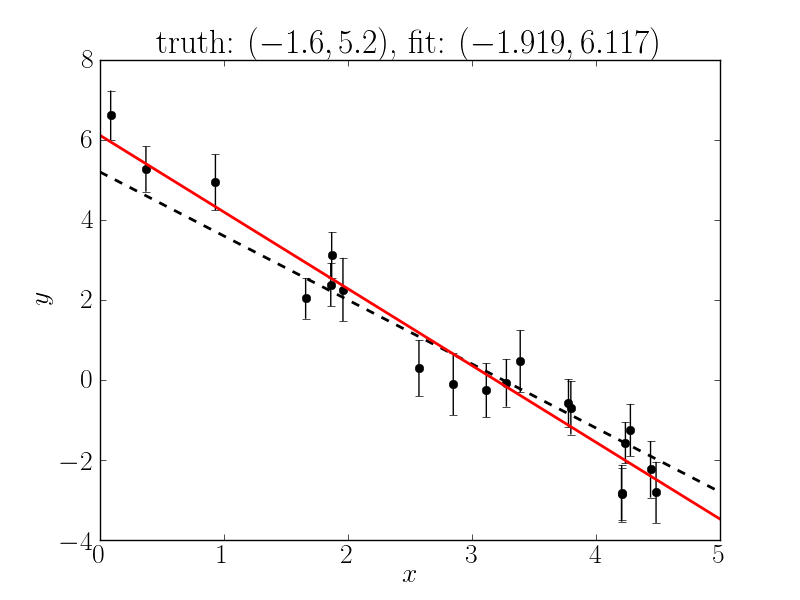
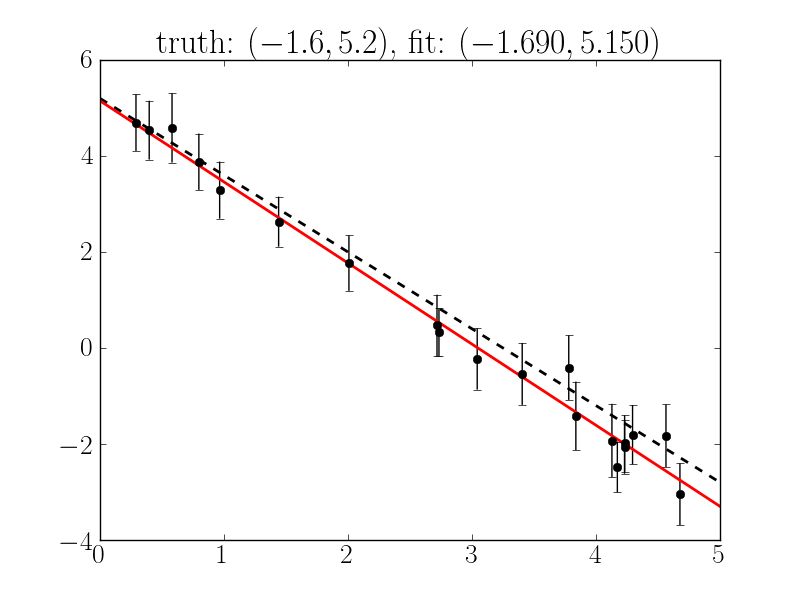
sampling

diff --git a/c/fit.py b/c/fit.py
@@ -15,25 +15,91 @@ p0 = np.array([1.0, 1.0])
 
 
 def optimize():
+    # The chi-squared function.
     chi2 = lambda p: -2 * line.lnlike(p, data)
+
+    # Optimize by minimizing chi-squared. This is equivalent to maximizing
+    # the likelihood.
     p = op.fmin(chi2, p0)
-    return p
 
+    # Generate the plot.
+    pl.clf()
 
-def plot(p):
-    pl.errorbar(data[:, 0], data[:, 1], yerr=data[:, 2], fmt="ok")
+    # Plot the truth as a dashed black line.
     x = np.array([0, 5])
     pl.plot(x, m_true * x + b_true, "--k", lw=2.0)
+
+    # Plot the fit as a red line.
     pl.plot(x, p[0] * x + p[1], "r", lw=2.0)
 
+    # Over plot the data.
+    pl.errorbar(data[:, 0], data[:, 1], yerr=data[:, 2], fmt="ok")
+
+    # Show the results in the title.
     pl.title(r"truth: $(%.1f, %.1f)$, fit: $(%.3f, %.3f)$"
             % (m_true, b_true, p[0], p[1]))
 
-    pl.xlabel("$x$")
-    pl.ylabel("$y$")
+    # Save it.
+    pl.savefig("optimize.png")
+
+
+def sample():
+    # We'll sample with 100 walkers.
+    nwalkers = 100
+
+    # Generate an initial guess for each walker.
+    initial = [p0 + 0.01 * np.random.randn(len(p0)) for k in range(nwalkers)]
+
+    # Set up the sampler.
+    sampler = emcee.EnsembleSampler(nwalkers, len(p0), line.lnlike,
+            args=[data, ])
+
+    # Do a burn in.
+    pos, prob, state = sampler.run_mcmc(initial, 100)
+
+    # Clear and start again.
+    sampler.reset()
+    sampler.run_mcmc(pos, 1000)
+
+    # Take the last 10 steps from each walker.
+    chain = sampler.flatchain
+    samples = chain[-1000:, :]
+
+    # Compute the mean and standard deviation values for the slope and
+    # intercept given these samples.
+    m, b = np.mean(samples, axis=0)
+    merr, berr = np.std(samples, axis=0)
+
+    # Compute the predicted lines from these samples.
+    x = np.array([0, 5])
+    lines = samples[:, 0, None] * x[None, :] + samples[:, 1, None]
+
+    # Generate the plot.
+    pl.clf()
+
+    # Plot the sampled lines.
+    pl.plot(x, lines.T, color="#555555", alpha=0.05)
+
+    # Plot the mean predicted line.
+    pl.plot(x, m * x + b, "r", lw=1.5)
+
+    # Over plot the truth.
+    pl.plot(x, m_true * x + b_true, "--g", lw=1.5)
+
+    # Over plot the data.
+    pl.errorbar(data[:, 0], data[:, 1], yerr=data[:, 2], fmt="ok")
+
+    # Show the results in the title.
+    pl.title(r"truth: $(%.1f, %.1f)$, fit: $(%.3f, %.3f) \pm (%.3f, %.3f)$"
+            % (m_true, b_true, m, b, merr, berr))
+
+    pl.savefig("samples.png")
 
 
 if __name__ == "__main__":
-    p = optimize()
-    plot(p)
-    pl.savefig("optimize.png")
+    print "Optimizing..."
+    optimize()
+    print
+
+    print "Sampling..."
+    sample()
